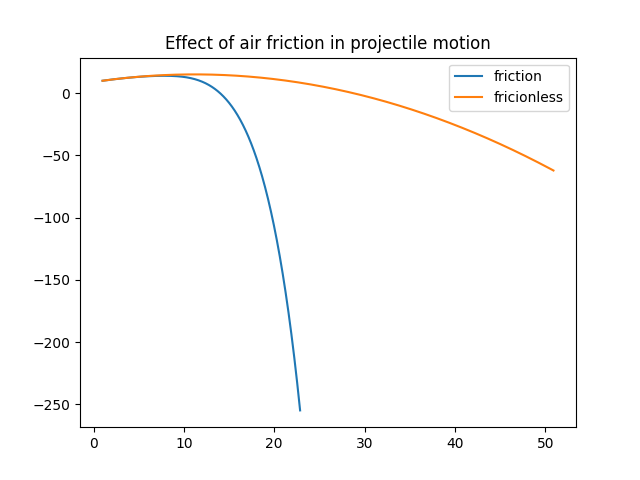
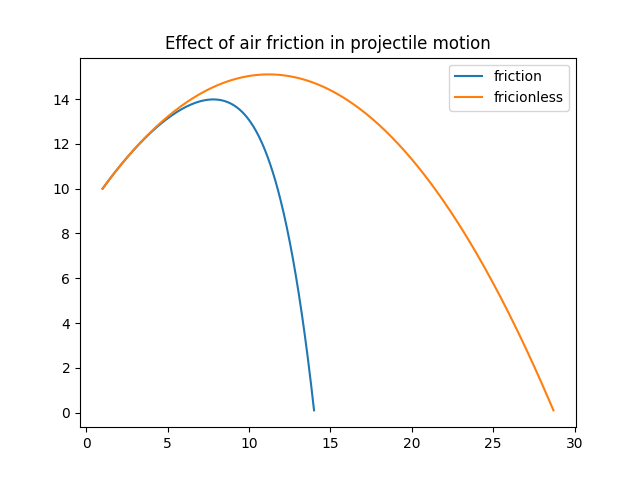
Simulation only lasts until the projectile touches the floor

diff --git a/friction.cpp b/friction.cpp
@@ -13,15 +13,14 @@ double fy(double vx, double vy, float c);
 
 int main(){
 
-    //int n=200; /*Num of iterations for the rk4*/
-    int n; /*Num of iterations for the rk4*/
+    int n; /*Max number of iterations for the rk4*/
 
 
-    //Opening config file
+    //Opening params file
     ifstream params_file;
     params_file.open("params.txt",ios::in);
     if(!params_file){ /*This verifies if the file can be opened*/
-        cout<<"Error in opening parameters file..";
+        cout<<"ERROR: could not open params file";
         return 0;
         }
     params_file >> n; /*Saves the number of iteration*/
@@ -60,21 +59,22 @@ void rk4(int n, float c){
     VY[0]=vy_ini;
 
     /*Loop for the RK4*/
-    for(int i=0;i<n;i++){
+    int i=0;
+    while(i<n && Y[i]>0){
 
     /*updates for every step in X and Y*/
     double k1x=fx(VX[i],VY[i], c);
     double k1y=fy(VX[i],VY[i], c);
-        
+
     double k2x=fx(VX[i]+0.5*h*k1x,VY[i]+0.5*h*k1y, c);
     double k2y=fy(VX[i]+0.5*h*k1x,VY[i]+0.5*h*k1y, c);
-        
+
     double k3x=fx(VX[i]+0.5*h*k2x,VY[i]+0.5*h*k2y, c);
     double k3y=fy(VX[i]+0.5*h*k2x,VY[i]+0.5*h*k2y, c);
-        
+
     double k4x=fx(VX[i]+h*k3x,VY[i]+h*k3y, c);
     double k4y=fy(VX[i]+h*k3x,VY[i]+h*k3y, c);
-        
+
     double k5x=VX[i];
     double k6x=(VX[i]+0.5*h*k1x);
     double k7x=(VX[i]+0.5*h*k2x);
@@ -89,8 +89,9 @@ void rk4(int n, float c){
     VX[i+1]=VX[i]+h*(k1x+2*k2x+2*k3x+k4x)/6;
     Y[i+1]=Y[i]+h*(k5y+2*k6y+2*k7y+k8y)/6;
     VY[i+1]=VY[i]+h*(k1y+2*k2y+2*k3y+k4y)/6;
-    
+
     std::cout<<X[i]<<" "<<Y[i]<<std::endl;
+    i = i + 1;
     }
 }
 

diff --git a/frictionless.cpp b/frictionless.cpp
@@ -13,15 +13,14 @@ double fy(double vx, double vy, float c);
 
 int main(){
 
-    //int n=200; /*Num of iterations for the rk4*/
-    int n; /*Num of iterations for the rk4*/
+    int n; /*Max number of iterations for the rk4*/
 
 
-    //Opening config file
+    //Opening params file
     ifstream params_file;
     params_file.open("params.txt",ios::in);
     if(!params_file){ /*This verifies if the file can be opened*/
-        cout<<"Error in opening parameters file..";
+        cout<<"ERROR: could not open params file";
         return 0;
         }
     params_file >> n; /*Saves the number of iteration*/
@@ -61,7 +60,8 @@ void rk4(int n, float c){
     VY[0]=vy_ini;
 
     /*Loop for the RK4*/
-    for(int i=0;i<n;i++){
+    int i=0;
+    while(i<n && Y[i]>0){
 
     /*updates for every step in X and Y*/
     double k1x=fx(VX[i],VY[i], c);
@@ -92,6 +92,7 @@ void rk4(int n, float c){
     VY[i+1]=VY[i]+h*(k1y+2*k2y+2*k3y+k4y)/6;
 
     std::cout<<X[i]<<" "<<Y[i]<<std::endl;
+    i = i + 1;
     }
 }
 
